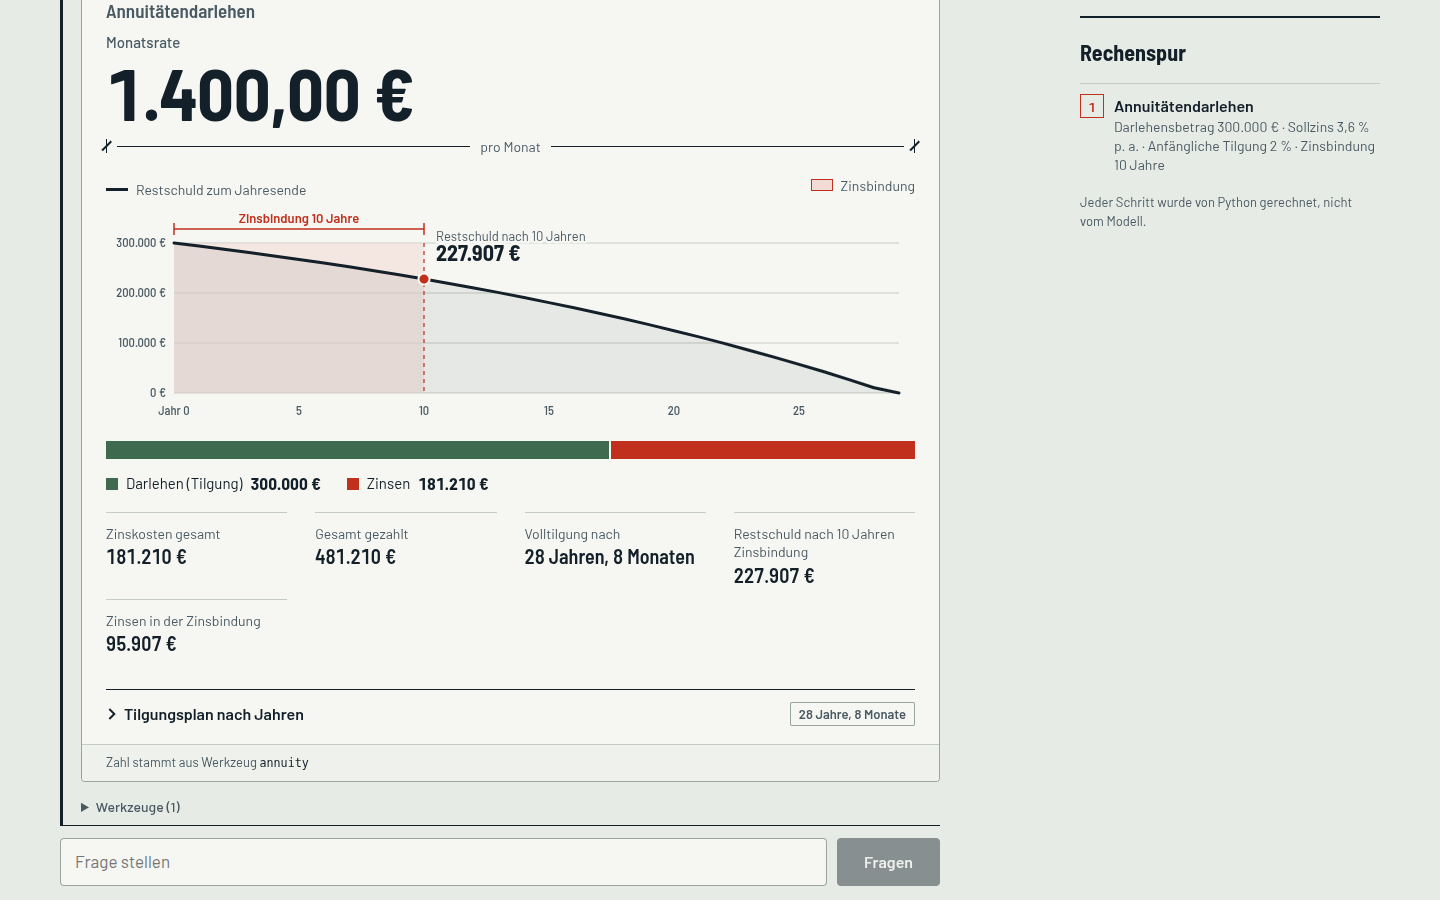
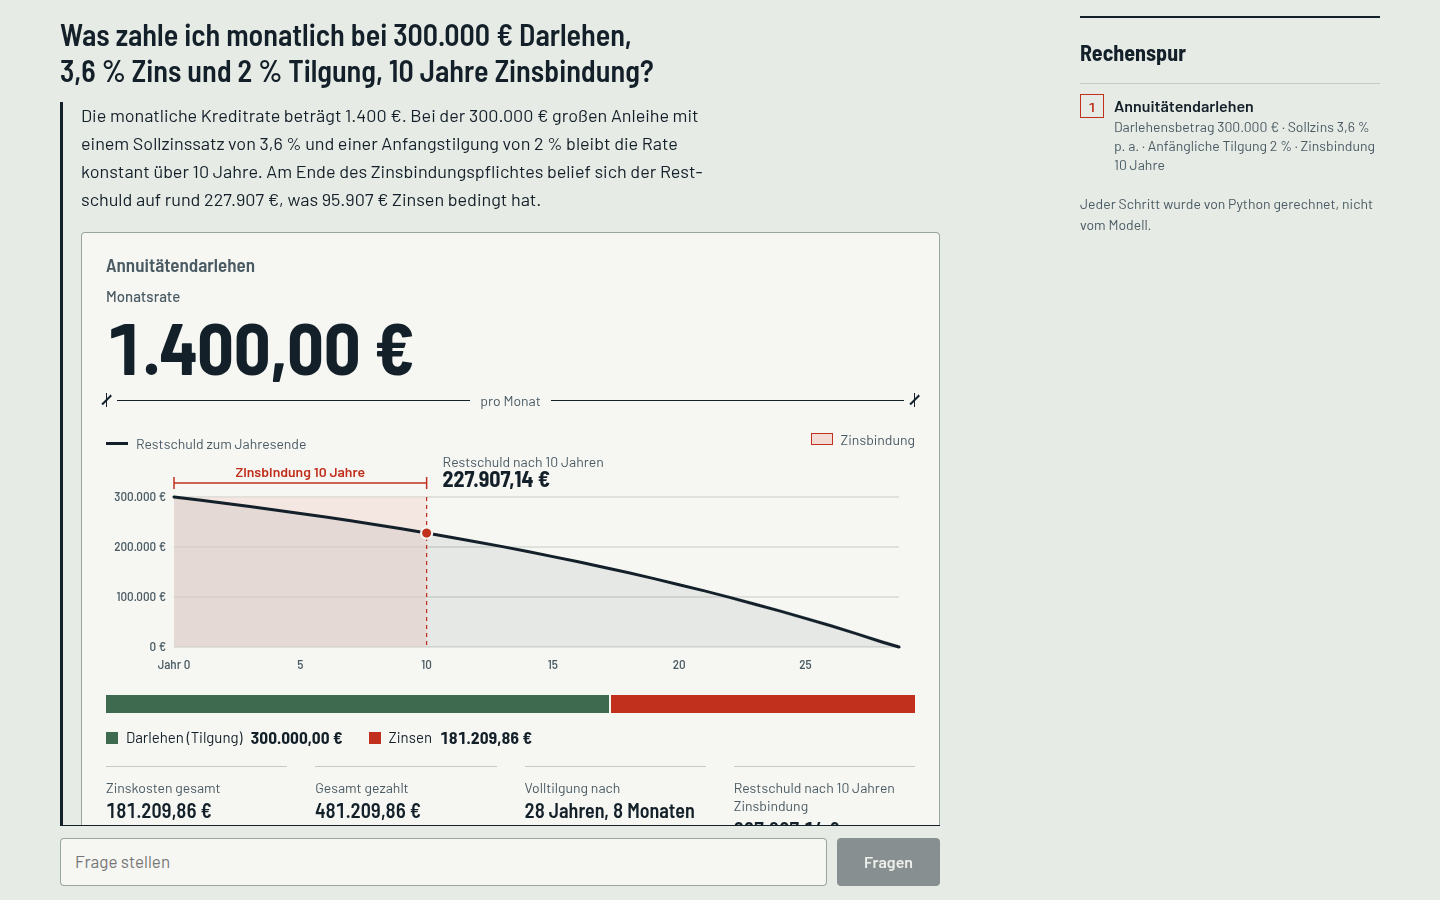
docs: re-shoot chat from a real run and show the tagged example object

diff --git a/README.md b/README.md
@@ -9,8 +9,8 @@ figure in the answer that no calculator produced.**
 ![estate-scout Rechner: live annuity result with the Restschuld curve and the Zinsbindung dimensioned](docs/media/hero.png)
 
 <sub>The Rechner, recalculating while you type. Screenshots are taken from the running app; the
-chat and object views are in [docs/media](docs/media). The objects in `objekte.png` are sample
-entries typed in for the screenshot.</sub>
+chat and object views are in [docs/media](docs/media). `objekte.png` shows the bundled example
+object (tagged "Beispiel", with fixed illustrative reference data); `chat.png` is a real local run.</sub>
 
 Runs entirely on your machine via [Ollama](https://ollama.com) — no paid APIs, no listing scraping.
 Not tax, investment or financing advice.
